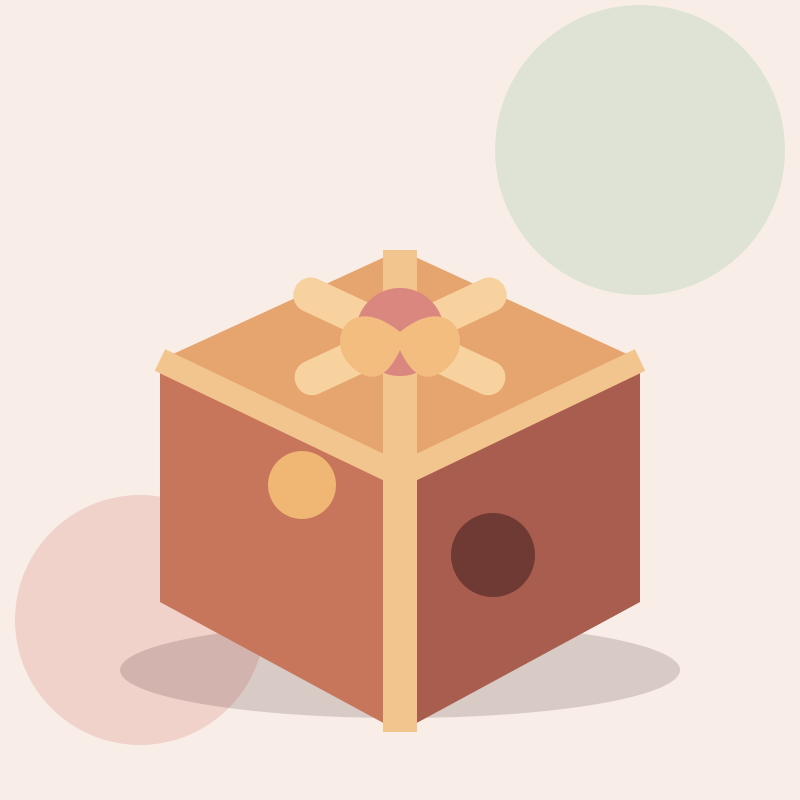
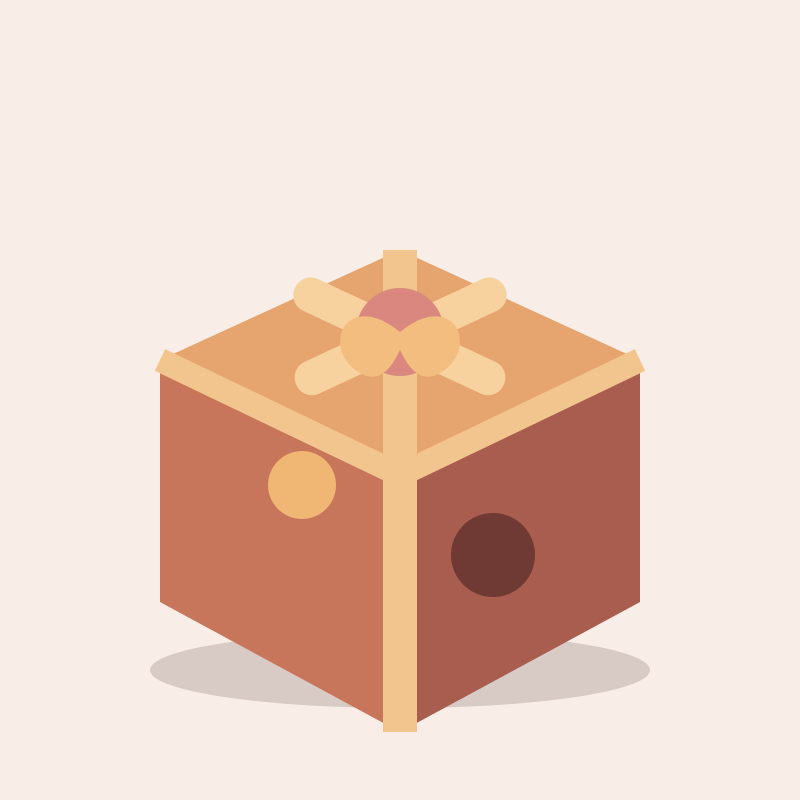
one final update

Changed region(s): [[0.5938, 0.0, 1.0, 0.375], [0.0, 0.5938, 0.4688, 0.9375], [0.5312, 0.7812, 0.8438, 0.9062]]

diff --git a/src/lib/theme.ts b/src/lib/theme.ts
@@ -127,10 +127,9 @@ export const CURATED_FONTS = [
 
 export function themeToCssVars(theme: ThemeTokens): string {
   const c = theme.colors;
-  const radiusSm = Math.round(theme.radiusBasePx * 0.5);
-  const radiusLg = Math.round(theme.radiusBasePx * 1.5);
-  const radius =
-    theme.buttonStyle === "pill" ? "9999px" : theme.buttonStyle === "square" ? "0px" : `${theme.radiusBasePx}px`;
+  const radiusBase = theme.radiusBasePx || 12;
+  const radiusSm = Math.round(radiusBase * 0.5);
+  const radiusLg = Math.round(radiusBase * 1.5);
   return `
     --color-background: ${c.background};
     --color-foreground: ${c.foreground};
@@ -149,7 +148,7 @@ export function themeToCssVars(theme: ThemeTokens): string {
     --color-danger: ${c.danger};
     --font-heading: "${theme.headingFont}", serif;
     --font-body: "${theme.bodyFont}", sans-serif;
-    --radius-base: ${radius};
+    --radius-base: ${theme.buttonStyle === "square" ? "0px" : `${radiusBase}px`};
     --radius-sm: ${theme.buttonStyle === "square" ? "0px" : `${radiusSm}px`};
     --radius-lg: ${theme.buttonStyle === "square" ? "0px" : `${radiusLg}px`};
     --container-max: ${theme.containerMaxWidthPx}px;

diff --git a/src/app/(site)/page.tsx b/src/app/(site)/page.tsx
@@ -70,8 +70,8 @@ export default async function HomePage() {
 
       <RevealSection className="mx-auto max-w-(--container-max) px-4 py-12 sm:py-20 sm:px-6 lg:px-8">
         <div className="grid items-center gap-8 sm:gap-10 lg:grid-cols-[1.1fr_0.9fr]">
-          <div className="relative overflow-hidden rounded-[calc(var(--radius-base)*2)] border border-[var(--color-border)] bg-[var(--color-surface)] p-2 sm:p-3 shadow-[0_20px_60px_rgba(43,29,20,0.06)]">
-            <div className="relative aspect-[5/4] overflow-hidden rounded-[calc(var(--radius-base)*1.5)] bg-[var(--color-muted)]">
+          <div className="relative overflow-hidden rounded-2xl sm:rounded-3xl border border-[var(--color-border)] bg-[var(--color-surface)] p-2 sm:p-3 shadow-[0_20px_60px_rgba(43,29,20,0.06)]">
+            <div className="relative aspect-[5/4] overflow-hidden rounded-xl sm:rounded-2xl bg-[var(--color-muted)]">
               {settings.aboutImageUrl ? (
                 <Image src={settings.aboutImageUrl} alt="Bakery kitchen" fill className="object-cover" />
               ) : (

diff --git a/src/app/globals.css b/src/app/globals.css
@@ -19,7 +19,9 @@
   --color-danger: #B23B3B;
   --font-heading: "Fraunces", serif;
   --font-body: "Inter", sans-serif;
-  --radius-base: 9999px;
+  --radius-base: 12px;
+  --radius-sm: 6px;
+  --radius-lg: 18px;
   --container-max: 1280px;
 }
 
@@ -42,8 +44,8 @@
   --font-heading: var(--font-heading);
   --font-body: var(--font-body);
   --radius-base: var(--radius-base);
-  --radius-sm: calc(var(--radius-base) * 0.5);
-  --radius-lg: calc(var(--radius-base) * 1.5);
+  --radius-sm: var(--radius-sm);
+  --radius-lg: var(--radius-lg);
 }
 
 html {
